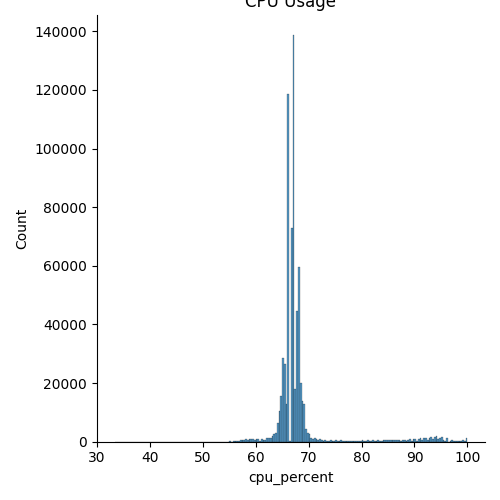
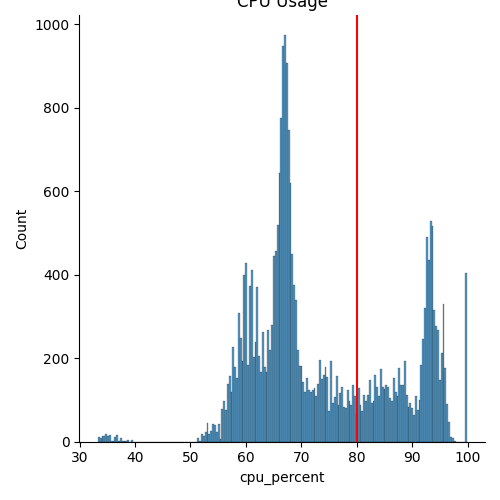
Code change

diff --git a/trunglc_report.py b/trunglc_report.py
@@ -132,10 +132,12 @@ plt.savefig(graph_folder + "/histogram.png")
 plt.clf()
 
 sns.displot(x = "cpu_percent", data = df_os, bins = 200).set(title = "CPU Usage")
+plt.axvline(80, color='red')
 plt.savefig(graph_folder + "/histogram1.png")
 
 plt.clf()
 sns.displot(x = "memory_percent", data = df_os, bins = 200).set(title = "Memory Usage")
+plt.axvline(80, color='red')
 plt.savefig(graph_folder + "/histogram2.png")
 
 plt.clf()

diff --git a/trunglc_test.py b/trunglc_test.py
@@ -199,7 +199,7 @@ def check_db(url, index, n_threads):
     pg = PG(url)
     #if has error, increase the n_errors and maybe stop the iter
     if pg.error > 0:
-        n_errors += n_errors
+        n_errors += 1
 
     if min_time > pg.time or min_time == 0:
         min_time = pg.time
